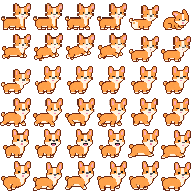
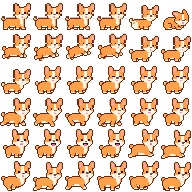
Ship hand-drawn frames for the cat and the panda too
All three pets now come from redrawn sheets. Reading them needed a different
way to drop the printed background: a panda's white body is a closer match for
the paper than the paper's two squares are for each other, so the background is
found by its checkerboard alternating rather than by its colour.

diff --git a/src/JKBar.App/Rendering/PetSpriteSheet.cs b/src/JKBar.App/Rendering/PetSpriteSheet.cs
@@ -51,7 +51,12 @@ internal static class PetSpriteSheet
     private static FrozenDictionary<IdleNotchContent, FrozenDictionary<(PixelPetAction, int, bool), Bitmap[]>> Load()
     {
         var sheets = new Dictionary<IdleNotchContent, FrozenDictionary<(PixelPetAction, int, bool), Bitmap[]>>();
-        foreach (var (pet, resource) in new[] { (IdleNotchContent.Dog, "JKBar.App.Assets.pet-dog.png") })
+        foreach (var (pet, resource) in new[]
+                 {
+                     (IdleNotchContent.Dog, "JKBar.App.Assets.pet-dog.png"),
+                     (IdleNotchContent.Cat, "JKBar.App.Assets.pet-cat.png"),
+                     (IdleNotchContent.Panda, "JKBar.App.Assets.pet-panda.png")
+                 })
         {
             var frames = Slice(resource);
             if (frames is not null) sheets[pet] = frames;
